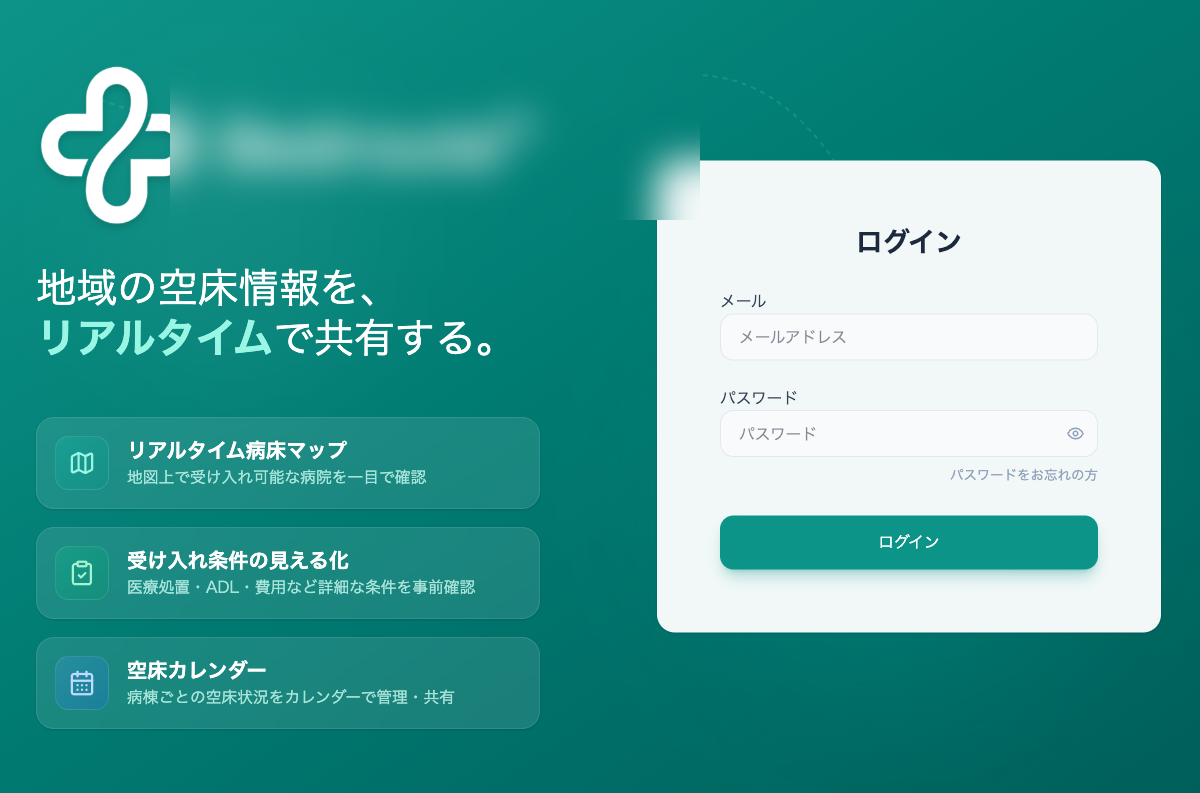
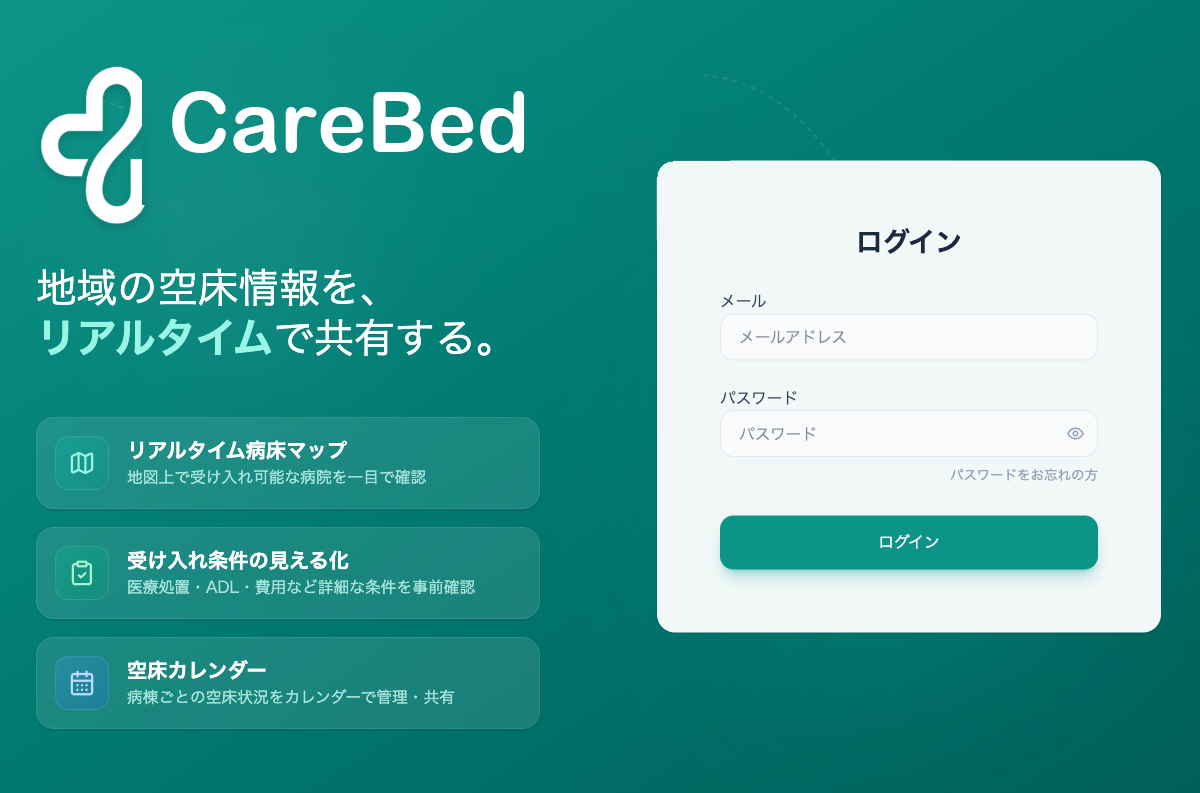
デザインレビュー反映：モックのボカシ除去・実績カード刷新・料金下CTA追加
- 退院支援ツールのモック2枚：ボカシ→架空ロゴ「CareBed」に差し替え（匿名性は維持）
- 実績カード：紺オーバーレイ→白カード＋サムネ全面表示に変更、実案件を先頭に並び替え
- 料金セクション末尾に「無料で相談する」CTAを追加（中間導線）
- フッターMENUをヘッダーnavと統一（実装デモ・制作の流れ追加、料金に改称）
- 見出し「料金の考え方」→「料金プラン」
- base font-familyをNoto Sans JP優先に統一

Claude-Session: https://claude.ai/code/session_01DZ9ZPKMTtu4P9SGDsvBHsS

Changed region(s): [[0.0925, 0.0908, 0.4625, 0.2421], [0.5242, 0.1513, 0.5858, 0.3026]]

diff --git a/index.html b/index.html
@@ -41,7 +41,7 @@
     <script src="js/tailwind.config.js?v=20260502"></script>
 
     <!-- Custom Stylesheet -->
-    <link rel="stylesheet" href="css/style.css?v=20260706b" />
+    <link rel="stylesheet" href="css/style.css?v=20260706c" />
   </head>
   <body>
     <!-- ヘッダー -->
@@ -263,7 +263,7 @@
                     <span></span>
                     <p>web-app.example</p>
                   </div>
-                  <img src="img/discharge-tool.png" alt="自主開発した退院支援管理ツールの画面" />
+                  <img src="img/discharge-tool.png?v=20260706" alt="自主開発した退院支援管理ツールの画面" />
                   <div class="hero-browser-caption">
                     <span>Web App</span>
                     <strong>退院支援管理ツール</strong>
@@ -333,7 +333,7 @@
             </article>
           </div>
           <div class="strength-visual">
-            <img src="img/discharge-tool.png" alt="退院支援管理ツールの画面" />
+            <img src="img/discharge-tool.png?v=20260706" alt="退院支援管理ツールの画面" />
             <img src="img/onomichi.png?v=20260705" alt="LP制作実績の画面" />
           </div>
         </div>
@@ -555,87 +555,23 @@
 
         <!-- ギャラリーグリッド -->
         <div class="grid grid-cols-1 md:grid-cols-2 lg:grid-cols-3 gap-6 works-bento-grid" id="works-grid">
-          <!-- 退院支援管理ツール (Web App) -->
-          <div class="works-item works-featured" data-category="webapp">
-            <button
-              class="works-card block relative overflow-hidden rounded-2xl aspect-video group w-full text-left"
-              onclick="openWorksModal('dischargeTool')">
-              <img
-                src="img/discharge-tool-mock.png?v=20260705"
-                class="w-full h-full object-cover transition-transform duration-500 group-hover:scale-110"
-                loading="lazy"
-                decoding="async"
-                alt="退院支援管理ツール" />
-              <div class="works-overlay">
-                <span class="works-category">Web App</span>
-                <h3 class="works-title">退院支援管理ツール（自主開発）</h3>
-                <p class="works-summary">転院調整を見える化</p>
-                <span class="works-link">詳細を見る →</span>
-              </div>
-              <div class="absolute top-3 right-3 bg-teal-600 text-white text-xs px-2 py-1 rounded font-bold z-10">
-                β版公開中
-              </div>
-            </button>
-          </div>
-
           <!-- EC・サイト改善実装 (EC) -->
           <div class="works-item" data-category="ec">
-            <button
-              class="works-card block relative overflow-hidden rounded-2xl aspect-video group w-full text-left"
-              onclick="openWorksModal('ecCro')">
-              <img
-                src="img/ec-cover.svg"
-                class="w-full h-full object-cover transition-transform duration-500 group-hover:scale-110"
-                loading="lazy"
-                decoding="async"
-                alt="ECサイト改善施策の実装イメージ" />
-              <div class="works-overlay">
+            <button class="works-card group w-full text-left" onclick="openWorksModal('ecCro')">
+              <div class="works-thumb">
+                <img
+                  src="img/ec-cover.svg"
+                  loading="lazy"
+                  decoding="async"
+                  alt="ECサイト改善施策の実装イメージ" />
+                <div class="absolute top-3 right-3 bg-accent-gold text-navy-main text-xs px-2 py-1 rounded font-bold z-10">
+                  継続受注中
+                </div>
+              </div>
+              <div class="works-caption">
                 <span class="works-category">EC改善 / 継続受注</span>
                 <h3 class="works-title">ECサイト改善施策の実装</h3>
                 <p class="works-summary">Web接客ツールで多数の施策を実装</p>
-                <span class="works-link">詳細を見る →</span>
-              </div>
-              <div class="absolute top-3 right-3 bg-accent-gold text-navy-main text-xs px-2 py-1 rounded font-bold z-10">
-                継続受注中
-              </div>
-            </button>
-          </div>
-
-          <!-- SnapOnomichi LP (LP) -->
-          <div class="works-item is-study-work" data-category="lp">
-            <button
-              class="works-card block relative overflow-hidden rounded-2xl aspect-video group w-full text-left"
-              onclick="openWorksModal('onomichi')">
-              <img
-                src="img/onomichi.png?v=20260705"
-                class="w-full h-full object-cover transition-transform duration-500 group-hover:scale-110"
-                loading="lazy"
-                decoding="async"
-                alt="SnapOnomichi" />
-              <div class="works-overlay">
-                <span class="works-category">LP / 課題制作</span>
-                <h3 class="works-title">デイトラ課題LP</h3>
-                <p class="works-summary">指定デザインを実装</p>
-                <span class="works-link">詳細を見る →</span>
-              </div>
-            </button>
-          </div>
-
-          <!-- ブログメディア (Media) -->
-          <div class="works-item" data-category="media">
-            <button
-              class="works-card block relative overflow-hidden rounded-2xl aspect-video group w-full text-left"
-              onclick="openWorksModal('blog')">
-              <img
-                src="img/blog-media.png?v=20260705"
-                class="w-full h-full object-cover transition-transform duration-500 group-hover:scale-110"
-                loading="lazy"
-                decoding="async"
-                alt="ブログメディア" />
-              <div class="works-overlay">
-                <span class="works-category">Media</span>
-                <h3 class="works-title">個人運営メディア</h3>
-                <p class="works-summary">SEOメディア運営</p>
                 <span class="works-link">詳細を見る →</span>
               </div>
             </button>
@@ -643,16 +579,15 @@
 
           <!-- GeneL コーポレートサイト (Corporate) -->
           <div class="works-item" data-category="corporate">
-            <button
-              class="works-card block relative overflow-hidden rounded-2xl aspect-video group w-full text-left"
-              onclick="openWorksModal('genel')">
-              <img
-                src="img/genel-top.png?v=20260705"
-                class="w-full h-full object-cover transition-transform duration-500 group-hover:scale-110"
-                loading="lazy"
-                decoding="async"
-                alt="GeneL inc." />
-              <div class="works-overlay">
+            <button class="works-card group w-full text-left" onclick="openWorksModal('genel')">
+              <div class="works-thumb">
+                <img
+                  src="img/genel-top.png?v=20260705"
+                  loading="lazy"
+                  decoding="async"
+                  alt="GeneL inc." />
+              </div>
+              <div class="works-caption">
                 <span class="works-category">Corporate</span>
                 <h3 class="works-title">GeneL inc. コーポレートサイト</h3>
                 <p class="works-summary">採用導線の実装</p>
@@ -661,18 +596,77 @@
             </button>
           </div>
 
+          <!-- 退院支援管理ツール (Web App) -->
+          <div class="works-item works-featured" data-category="webapp">
+            <button class="works-card group w-full text-left" onclick="openWorksModal('dischargeTool')">
+              <div class="works-thumb">
+                <img
+                  src="img/discharge-tool-mock.png?v=20260706"
+                  loading="lazy"
+                  decoding="async"
+                  alt="退院支援管理ツール" />
+                <div class="absolute top-3 right-3 bg-teal-600 text-white text-xs px-2 py-1 rounded font-bold z-10">
+                  β版公開中
+                </div>
+              </div>
+              <div class="works-caption">
+                <span class="works-category">Web App</span>
+                <h3 class="works-title">退院支援管理ツール（自主開発）</h3>
+                <p class="works-summary">転院調整を見える化</p>
+                <span class="works-link">詳細を見る →</span>
+              </div>
+            </button>
+          </div>
+
+          <!-- ブログメディア (Media) -->
+          <div class="works-item" data-category="media">
+            <button class="works-card group w-full text-left" onclick="openWorksModal('blog')">
+              <div class="works-thumb">
+                <img
+                  src="img/blog-media.png?v=20260705"
+                  loading="lazy"
+                  decoding="async"
+                  alt="ブログメディア" />
+              </div>
+              <div class="works-caption">
+                <span class="works-category">Media</span>
+                <h3 class="works-title">個人運営メディア</h3>
+                <p class="works-summary">SEOメディア運営</p>
+                <span class="works-link">詳細を見る →</span>
+              </div>
+            </button>
+          </div>
+
+          <!-- SnapOnomichi LP (LP) -->
+          <div class="works-item is-study-work" data-category="lp">
+            <button class="works-card group w-full text-left" onclick="openWorksModal('onomichi')">
+              <div class="works-thumb">
+                <img
+                  src="img/onomichi.png?v=20260705"
+                  loading="lazy"
+                  decoding="async"
+                  alt="SnapOnomichi" />
+              </div>
+              <div class="works-caption">
+                <span class="works-category">LP / 課題制作</span>
+                <h3 class="works-title">デイトラ課題LP</h3>
+                <p class="works-summary">指定デザインを実装</p>
+                <span class="works-link">詳細を見る →</span>
+              </div>
+            </button>
+          </div>
+
           <!-- みなみ歯科クリニック (Corporate) -->
           <div class="works-item is-study-work" data-category="corporate">
-            <button
-              class="works-card block relative overflow-hidden rounded-2xl aspect-video group w-full text-left"
-              onclick="openWorksModal('minamiClinic')">
-              <img
-                src="img/minami-clinic.png?v=20260705"
-                class="w-full h-full object-cover transition-transform duration-500 group-hover:scale-110"
-                loading="lazy"
-                decoding="async"
-                alt="みなみ歯科クリニック" />
-              <div class="works-overlay">
+            <button class="works-card group w-full text-left" onclick="openWorksModal('minamiClinic')">
+              <div class="works-thumb">
+                <img
+                  src="img/minami-clinic.png?v=20260705"
+                  loading="lazy"
+                  decoding="async"
+                  alt="みなみ歯科クリニック" />
+              </div>
+              <div class="works-caption">
                 <span class="works-category">WordPress / 課題制作</span>
                 <h3 class="works-title">デイトラ課題サイト</h3>
                 <p class="works-summary">歯科医院サイトを実装</p>
@@ -1036,7 +1030,7 @@
       <div class="max-w-6xl mx-auto px-4">
         <div class="section-title reveal-up">
           <span>PRICE</span>
-          <h2>料金の考え方</h2>
+          <h2>料金プラン</h2>
           <p class="text-sm text-text-gray mt-4">
             個人運営のため、制作会社より抑えた価格でお受けしています。設計・原稿整理込みです。
           </p>
@@ -1152,6 +1146,18 @@
           ※ ページ数、CMS、外部連携、素材量で変動します。予算内で優先順位を整理します。<br />
           ※ 既存サイトの部分改善・施策実装（スポット）のご相談も承ります。
         </p>
+
+        <!-- 相談CTA -->
+        <div class="mt-14 text-center reveal-up">
+          <p class="text-text-gray text-sm mb-5">どのプランが合うか分からなくても大丈夫です。現状の整理からご一緒します。</p>
+          <a
+            href="#contact"
+            class="btn-primary inline-flex items-center justify-center px-10 py-4 rounded-full shadow-xl text-lg">
+            <i class="fa-regular fa-envelope mr-2"></i>
+            無料で相談する
+            <i class="fa-solid fa-chevron-right ml-2 text-sm text-accent-gold"></i>
+          </a>
+        </div>
       </div>
     </section>
 
@@ -1539,7 +1545,9 @@
               <li><a href="#about" class="hover:text-white transition-colors">強み・特徴</a></li>
               <li><a href="#profile" class="hover:text-white transition-colors">プロフィール</a></li>
               <li><a href="#works" class="hover:text-white transition-colors">制作実績</a></li>
-              <li><a href="#service" class="hover:text-white transition-colors">料金・サービス</a></li>
+              <li><a href="#demo" class="hover:text-white transition-colors">実装デモ</a></li>
+              <li><a href="#workflow" class="hover:text-white transition-colors">制作の流れ</a></li>
+              <li><a href="#service" class="hover:text-white transition-colors">料金</a></li>
             </ul>
           </div>
           <!-- エリア＆ポリシー -->

diff --git a/css/style.css b/css/style.css
@@ -16,7 +16,7 @@
 
 /* --- Base Styles --- */
 body {
-  font-family: "Zen Kaku Gothic New", "Noto Sans JP", sans-serif;
+  font-family: "Noto Sans JP", "Zen Kaku Gothic New", sans-serif;
   color: var(--ink);
   line-height: 1.8;
   letter-spacing: 0.05em;
@@ -5700,4 +5700,96 @@ body::before {
   .hero-word {
     font-size: 0.9rem !important;
   }
+}
+
+/* ==============================================
+   Works カード：サムネイル可読性リフレッシュ
+   （画像を白カード上部にフル表示し、キャプションを下に分離）
+   ============================================== */
+#works-grid .works-card {
+  position: relative;
+  display: flex;
+  flex-direction: column;
+  height: 100%;
+  aspect-ratio: auto;
+  overflow: hidden;
+  background: #ffffff;
+  border: 1px solid rgba(23, 41, 90, 0.1);
+  border-radius: 22px;
+  box-shadow: 0 14px 36px rgba(23, 41, 90, 0.12);
+  transition: transform 0.35s ease, box-shadow 0.35s ease;
+}
+
+#works-grid .works-card:hover {
+  transform: translateY(-4px);
+  box-shadow: 0 22px 48px rgba(23, 41, 90, 0.18);
+}
+
+#works-grid .works-thumb {
+  position: relative;
+  aspect-ratio: 16 / 9;
+  overflow: hidden;
+  background: #e8edf5;
+}
+
+#works-grid .works-thumb img {
+  width: 100%;
+  height: 100%;
+  object-fit: cover;
+  object-position: top center;
+  transition: transform 0.5s ease;
+}
+
+#works-grid .works-card:hover .works-thumb img {
+  transform: scale(1.05);
+}
+
+#works-grid .works-caption {
+  flex: 1;
+  display: flex;
+  flex-direction: column;
+  gap: 0.35rem;
+  padding: 1.15rem 1.35rem 1.3rem;
+}
+
+#works-grid .works-category {
+  color: #a0763b;
+  font-size: 0.72rem;
+  font-weight: 700;
+  letter-spacing: 0.08em;
+  margin-bottom: 0;
+  transform: none;
+}
+
+#works-grid .works-title,
+#works-grid .works-featured .works-title {
+  color: #17295a;
+  font-size: 1.08rem;
+  font-weight: 700;
+  line-height: 1.5;
+  margin-bottom: 0;
+  transform: none;
+}
+
+#works-grid .works-summary {
+  color: #5a6b85;
+  font-size: 0.8rem;
+  margin-bottom: 0.2rem;
+  transform: none;
+}
+
+#works-grid .works-link {
+  color: #a0763b;
+  font-size: 0.82rem;
+  margin-top: auto;
+  transform: none;
+}
+
+/* 課題制作カード：旧オーバーレイ用の演出を新レイアウトに合わせ調整 */
+.works-item.is-study-work .works-card::after {
+  display: none;
+}
+
+.works-item.is-study-work .works-thumb img {
+  filter: saturate(0.86) brightness(0.97);
 }